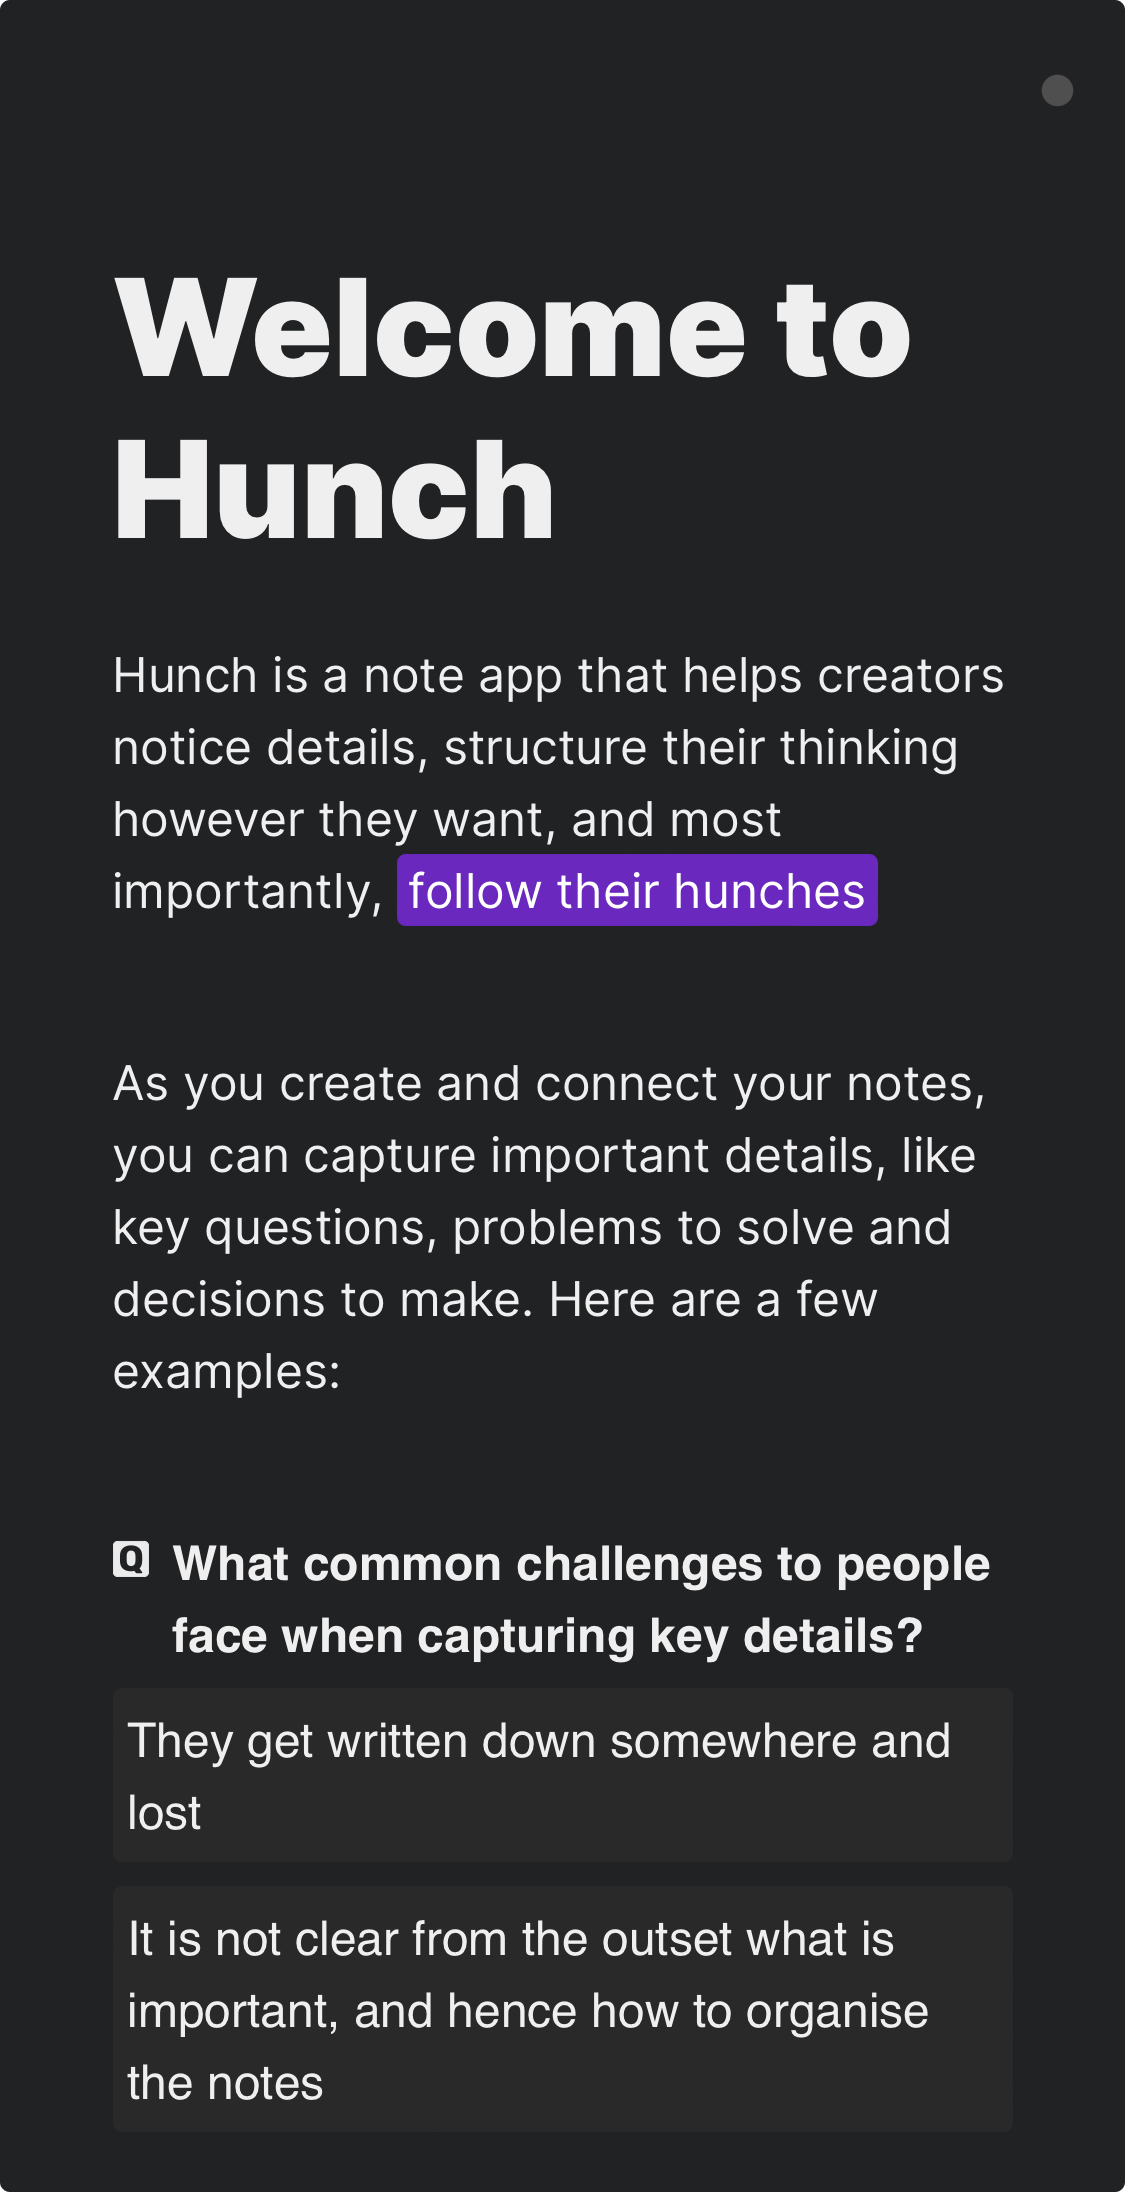
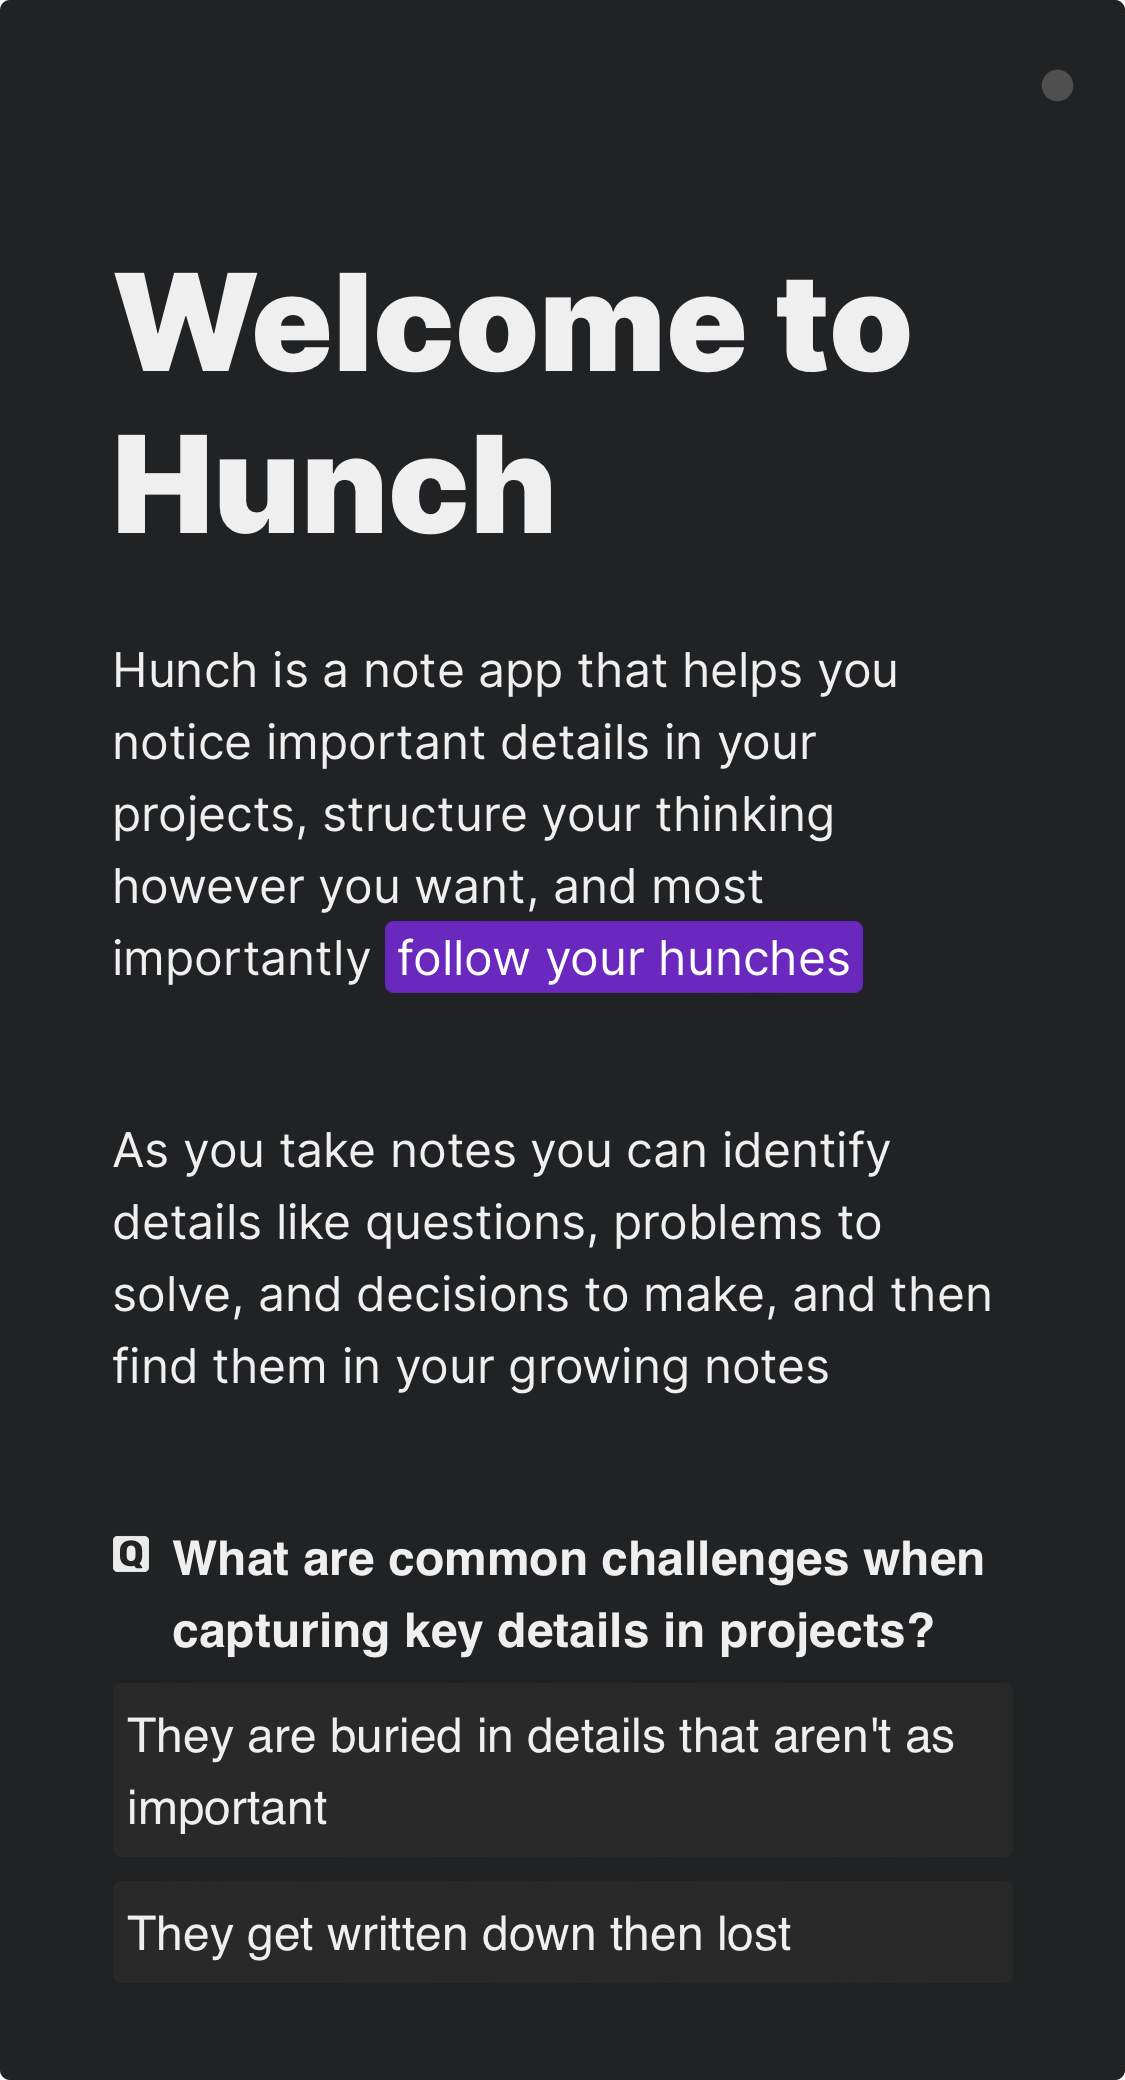
updated font size and content

diff --git a/src/App.js b/src/App.js
@@ -58,7 +58,7 @@ const App = () => {
 
   return (
     <Container>
-      <Hero>A note app for creators.</Hero>
+      <Hero>A note app for the unknown.</Hero>
       <HeroImage src={isMobilePlatform ? WelcomeMobile : Welcome} alt="Screenshot of what hunch looks like" />
       <StatementsContainer>
         <StatementWrapper>
@@ -131,7 +131,7 @@ const Hero = styled.div`
   color: transparent;
   width: 80%;
   @media (max-width: 960px) {
-    font-size: 58px;
+    font-size: 48px;
     padding-left: 10vw;
     padding-top: 25vh;
     padding-bottom: 30vh;
@@ -201,8 +201,8 @@ const Statement = styled.div`
 
 
 const Description = styled.div`
-  font-size: 18px;
-  font-weight: 200;
+  font-size: 22px;
+  font-weight: 100;
   color: #EFEFEF;
   background: none;
   padding-top: 14px;
